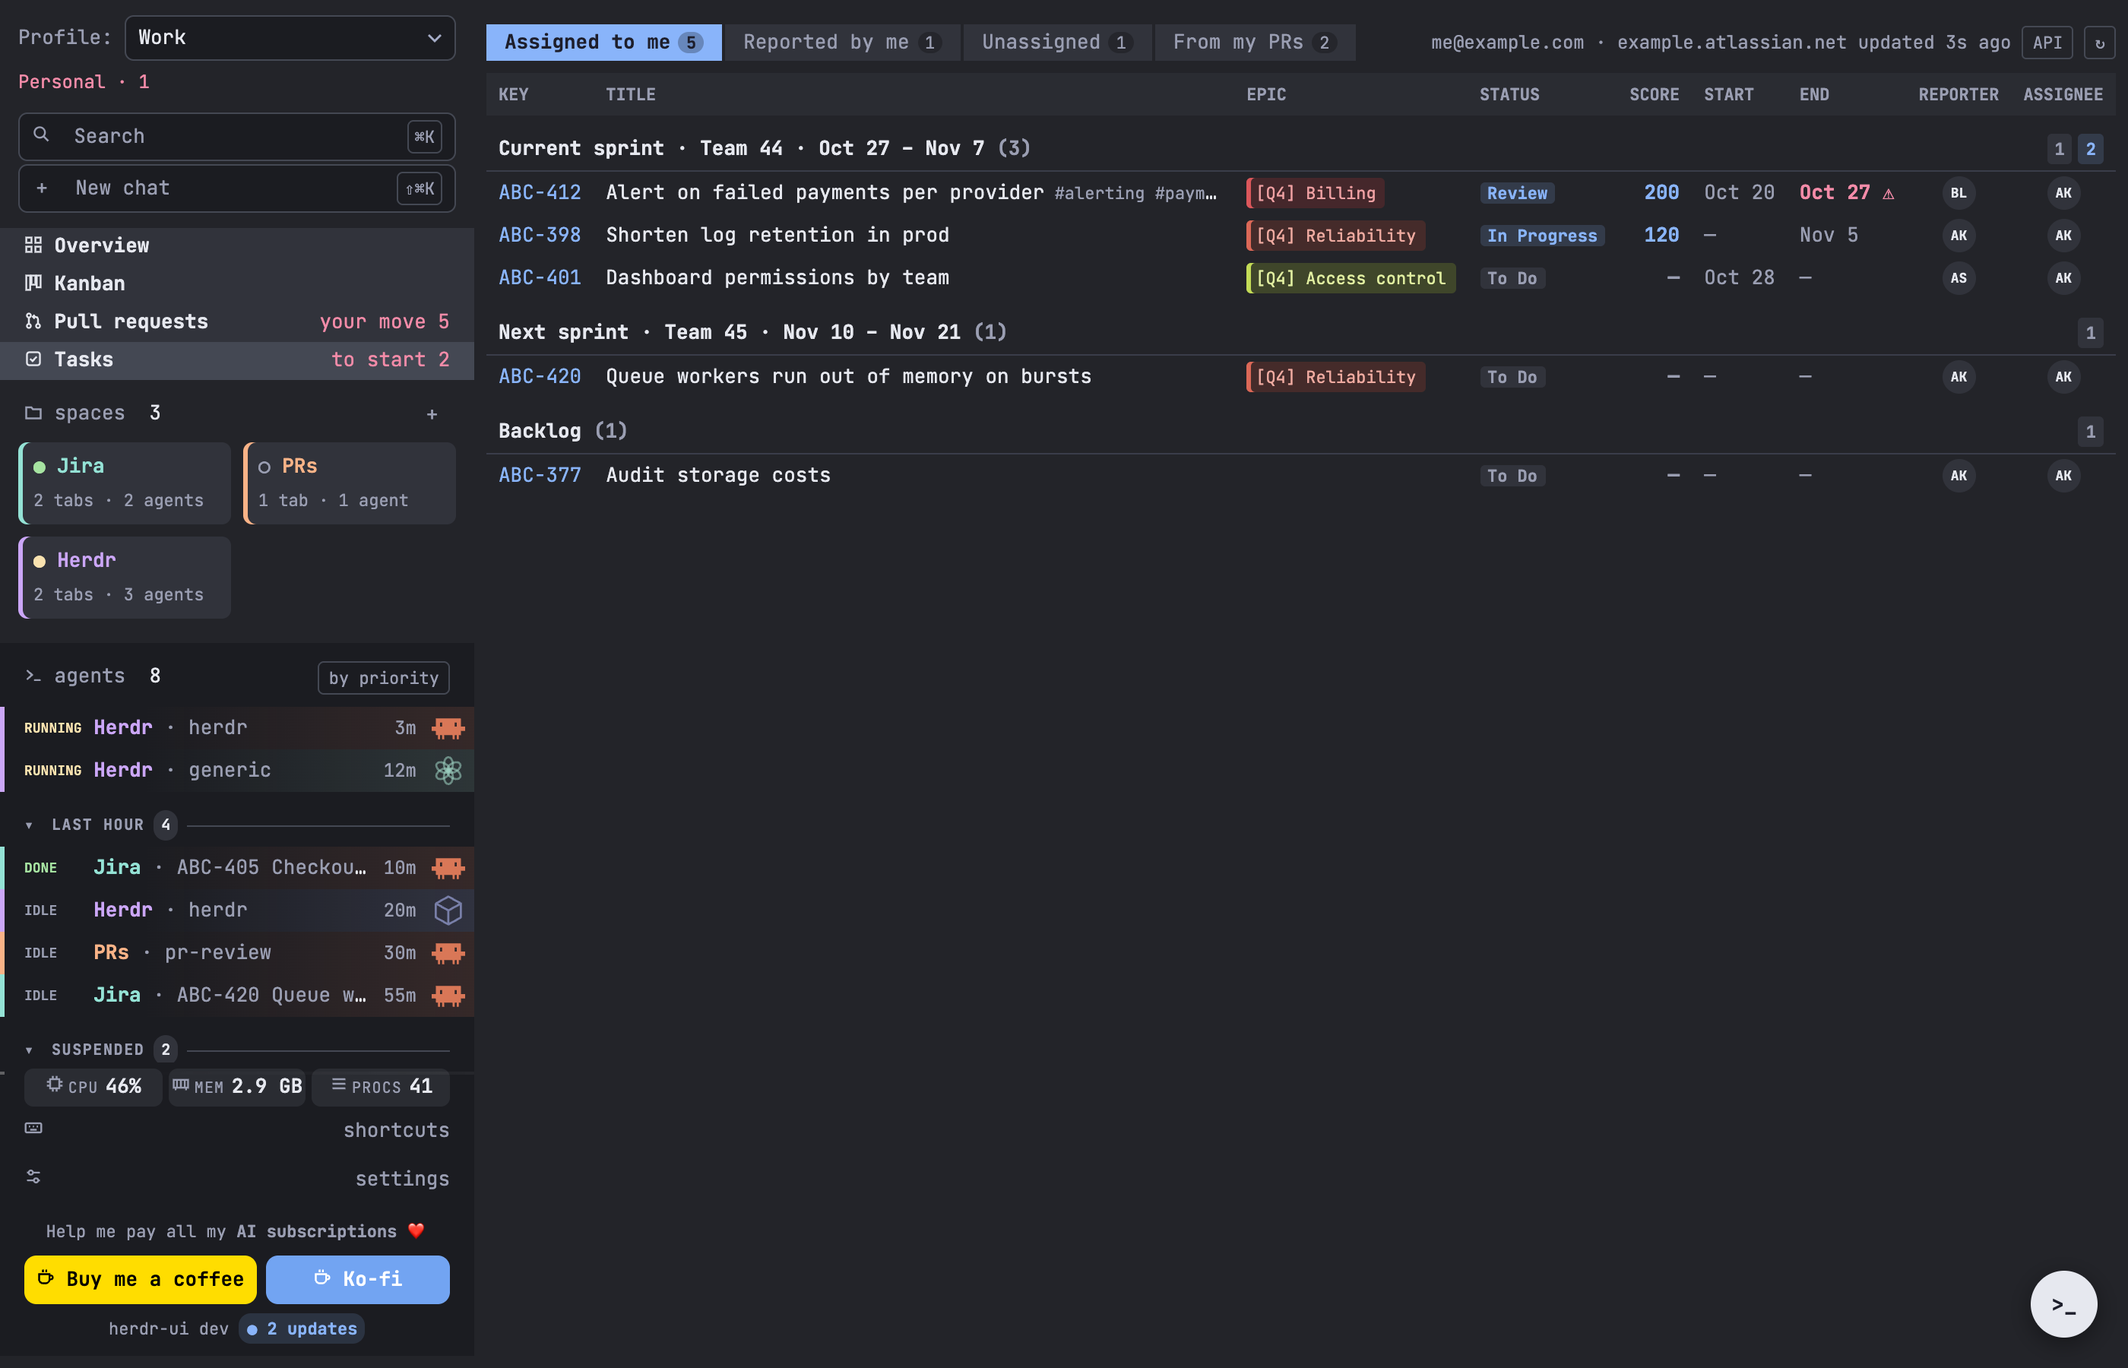
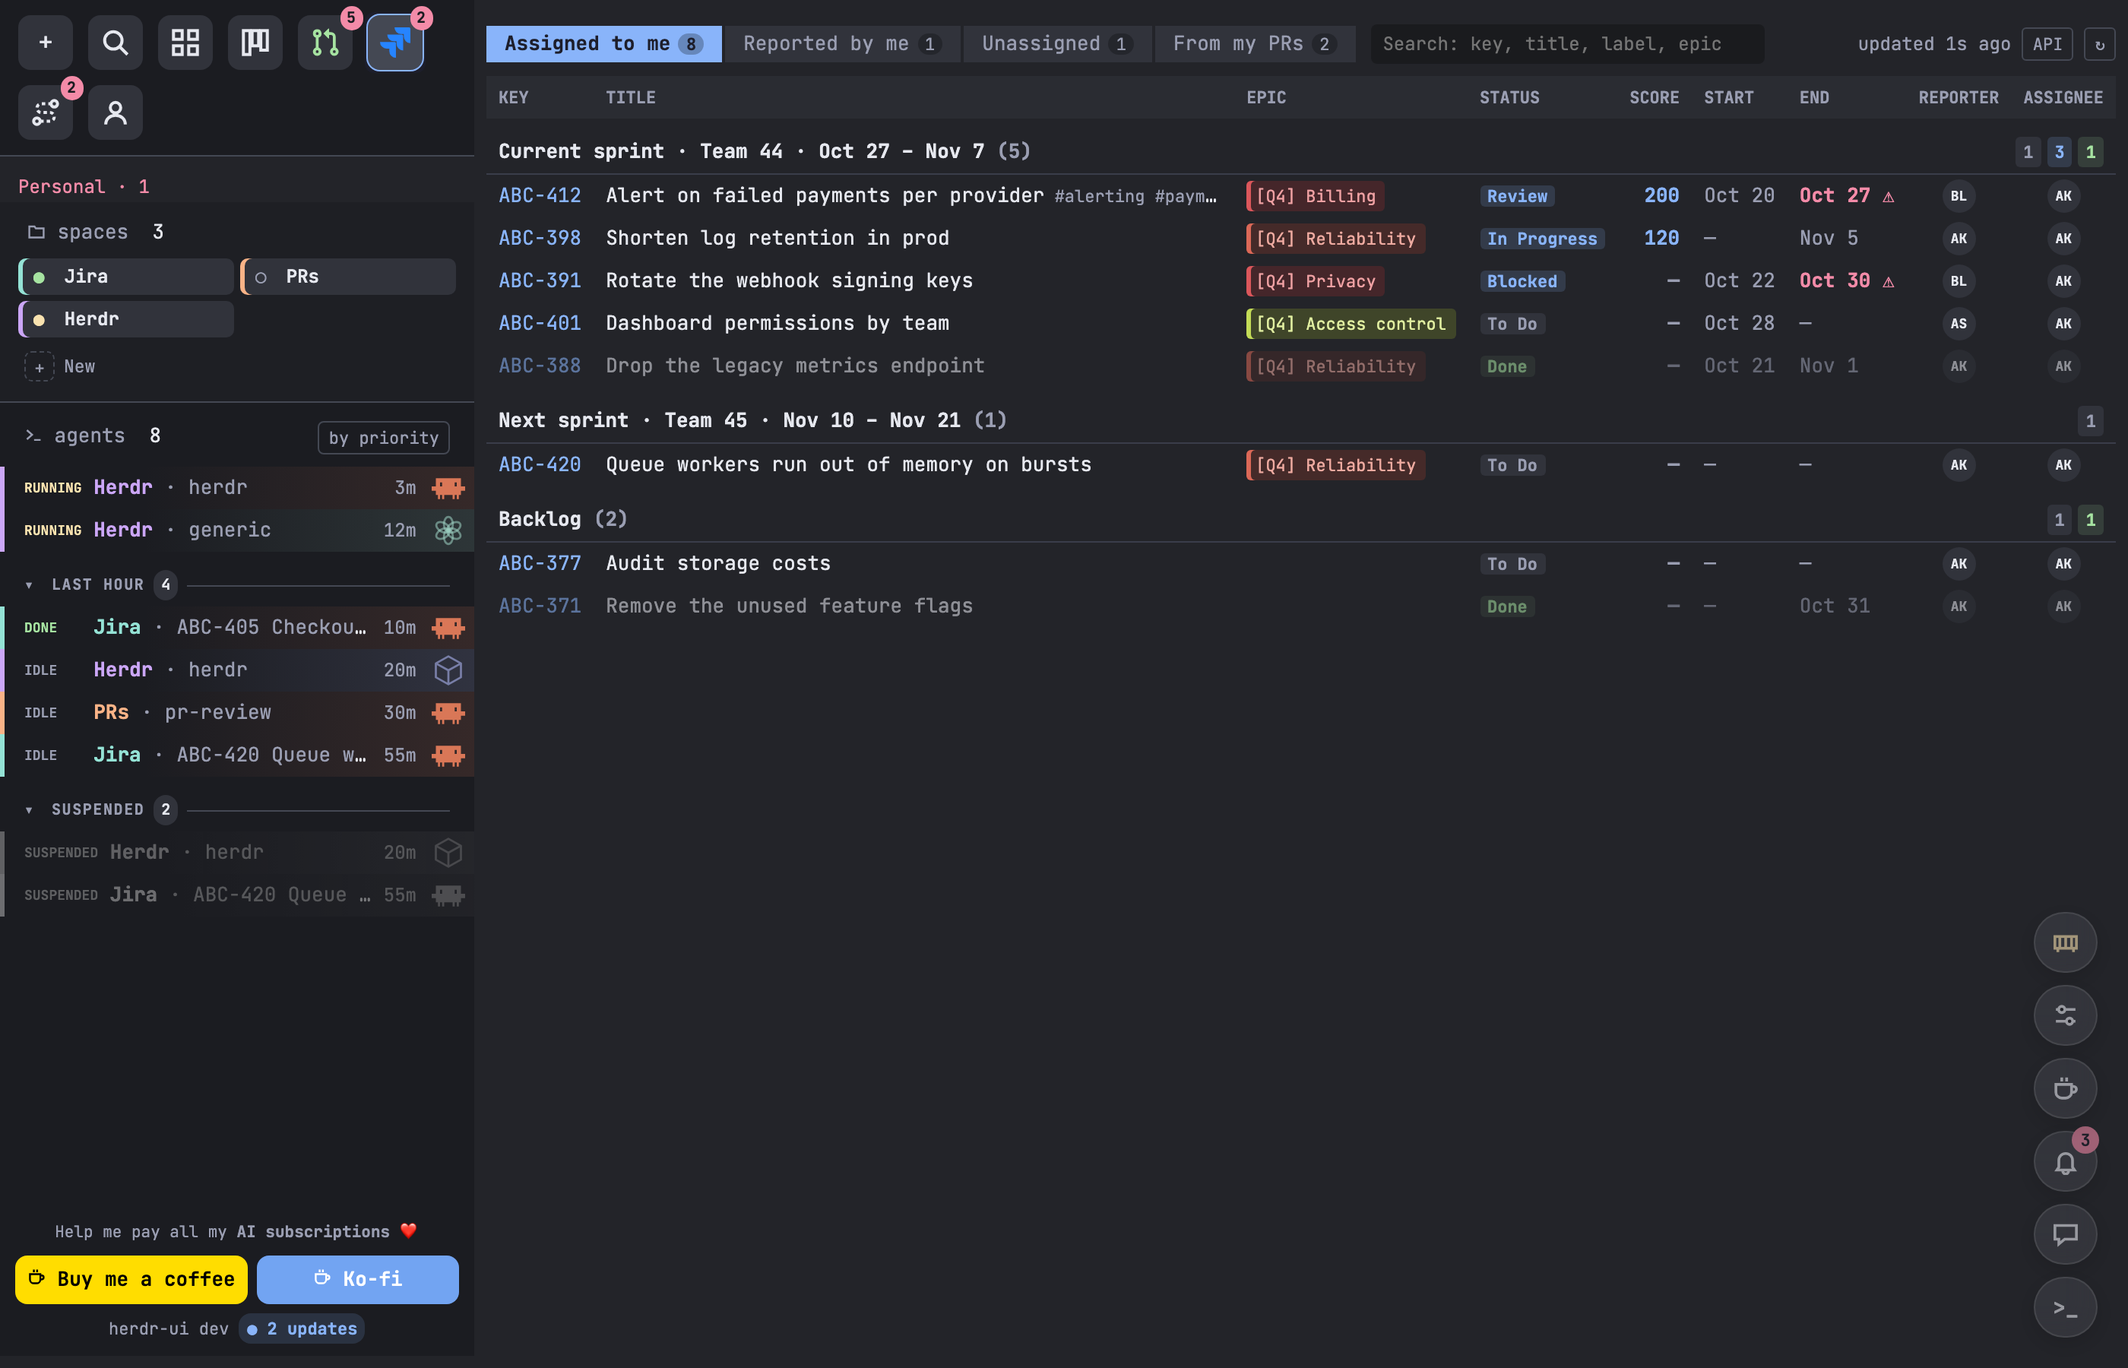
herdr-ui: v0.21.1 screenshots, a Jira section with Tasks and Map, a consolidated More grid

diff --git a/herdr-ui/index.html b/herdr-ui/index.html
@@ -4,7 +4,7 @@
 <meta charset="utf-8">
 <meta name="viewport" content="width=device-width, initial-scale=1">
 <title>herdr-ui · every agent, one screen</title>
-<meta name="description" content="herdr-ui: a better UI for herdr. A live overview of every agent, a kanban by status, pull requests and Jira tasks tied to agents, ⌘K search, and native macOS notifications.">
+<meta name="description" content="herdr-ui: a better UI for herdr. A live overview of every agent, a kanban by status, GitHub and GitLab pull requests and Jira tasks tied to agents, ⌘K search, and native macOS notifications.">
 <link rel="icon" href="icon.svg">
 <meta property="og:image" content="https://dccarbone.github.io/herdr-ui/social-preview.png">
 <link rel="preconnect" href="https://fonts.googleapis.com">
@@ -107,15 +107,7 @@ h2 { font-size:clamp(30px,3.2vw,44px); line-height:1.12; letter-spacing:-.03em; 
 .mac .notif-card { background:rgba(30,27,75,.75); backdrop-filter:blur(12px); -webkit-backdrop-filter:blur(12px); border:1px solid rgba(255,255,255,.12); border-radius:14px; padding:14px 16px; box-shadow:0 14px 40px rgba(0,0,0,.35); }
 .mac .notif-card:nth-child(2) { margin-left:8%; }
 .mac .notif-card .when { float:right; color:var(--muted); font-size:12px; margin-left:8px; }
-.chat { position:relative; z-index:1; display:grid; gap:10px; background:rgba(30,27,75,.75); border:1px solid rgba(255,255,255,.12); border-radius:14px; padding:16px; box-shadow:0 14px 40px rgba(0,0,0,.35); }
-.chat p { margin:0; padding:8px 12px; border-radius:12px; max-width:85%; font-size:14px; }
-.chat .me { justify-self:end; background:var(--accent2); color:var(--fg); }
-.chat .bot { justify-self:start; background:rgba(255,255,255,.08); color:var(--body); }
-.chat .dots { display:flex; gap:4px; padding:12px; }
-.chat .dots i { width:6px; height:6px; border-radius:50%; background:var(--muted); animation:blink 1.4s infinite; }
-.chat .dots i:nth-child(2) { animation-delay:.2s; } .chat .dots i:nth-child(3) { animation-delay:.4s; }
 @keyframes blink { 0%,80%,100% { opacity:.25; } 40% { opacity:1; } }
-.fab { position:relative; z-index:1; margin:16px 0 0 auto; width:44px; height:44px; border-radius:50%; background:#fff; color:#1b1840; display:grid; place-items:center; font:700 14px ui-monospace, Menlo, monospace; box-shadow:0 8px 24px rgba(0,0,0,.4); }
 .dockbar { position:relative; z-index:1; margin:30px auto 0; display:flex; justify-content:center; gap:14px; padding:12px 18px; background:rgba(255,255,255,.08); border:1px solid var(--line); border-radius:18px; width:max-content; }
 .dockbar i { position:relative; width:46px; height:46px; border-radius:12px; background:rgba(255,255,255,.12); display:grid; place-items:center; font-style:normal; font-size:20px; }
 .dockbar i.me { background:var(--accent); animation:bounce 2.4s var(--ease) infinite; }
@@ -158,7 +150,7 @@ footer a:hover { color:var(--fg); }
 @media (prefers-reduced-motion:reduce) {
   html { scroll-behavior:auto; }
   .js .rv { opacity:1; transform:none; transition:none; }
-  .float, .dockbar i.me, .chat .dots i { animation:none; }
+  .float, .dockbar i.me { animation:none; }
   .tilt, .btn { transition:none; }
 }
 </style>
@@ -168,7 +160,7 @@ footer a:hover { color:var(--fg); }
 <div class="topbar"><div class="wrap">
 <nav>
       <a class="logo" href="#"><img src="icon.svg" width="46" height="46" alt=""><span>herdr-ui<small>FOR HERDR</small></span></a>
-      <div class="links"><a href="#overview">Overview</a><a href="#kanban">Kanban</a><a href="#prs">Pull requests</a><a href="#tasks">Tasks</a><a href="#palette">⌘K</a><a href="#assistant">Assistant</a><a href="#native">macOS app</a><a href="#install">Install</a><a class="btn sm bmc" href="https://buymeacoffee.com/dccarbone">☕<span class="lbl"> Buy me a coffee</span></a><a class="btn sm kofi" href="https://ko-fi.com/dccarbone">☕<span class="lbl"> Ko-fi</span></a><a class="btn sm" href="https://pub-1ab8d5b5f9dd43a49ae32ff91a1d4394.r2.dev/herdr-ui/herdr-ui.dmg">Download</a></div>
+      <div class="links"><a href="#overview">Overview</a><a href="#kanban">Kanban</a><a href="#prs">Pull requests</a><a href="#tasks">Jira</a><a href="#palette">⌘K</a><a href="#native">macOS app</a><a href="#more">More</a><a href="#install">Install</a><a class="btn sm bmc" href="https://buymeacoffee.com/dccarbone">☕<span class="lbl"> Buy me a coffee</span></a><a class="btn sm kofi" href="https://ko-fi.com/dccarbone">☕<span class="lbl"> Ko-fi</span></a><a class="btn sm" href="https://pub-1ab8d5b5f9dd43a49ae32ff91a1d4394.r2.dev/herdr-ui/herdr-ui.dmg">Download</a></div>
     </nav>
 </div></div>
 
@@ -179,7 +171,7 @@ footer a:hover { color:var(--fg); }
       <div>
         <span class="pill"><b>macOS</b> Signed, notarized, updates itself</span>
         <h1>Every herdr agent, <span class="grad">one screen.</span></h1>
-        <p class="lead">A live overview, a kanban, pull requests and Jira tasks for every herdr agent, on one screen.</p>
+        <p class="lead">See what each herdr agent is doing, answer the ones that wait on you, and keep their pull requests and Jira tasks next to them.</p>
         <div class="actions">
           <a class="btn" href="https://pub-1ab8d5b5f9dd43a49ae32ff91a1d4394.r2.dev/herdr-ui/herdr-ui.dmg">Download for macOS</a>
           <a class="btn ghost" href="#overview">See how it works</a>
@@ -209,10 +201,10 @@ footer a:hover { color:var(--fg); }
         <div class="points">
           <div style="--c:var(--pink)"><b>It picks for you</b>Blocked agents first, then working and just finished ones.</div>
           <div style="--c:var(--cyan)"><b>Pin or hide</b>Pinned agents stay; hidden ones come back when they block.</div>
-          <div style="--c:var(--orange)"><b>Spaces and profiles</b>Spaces with agent counts, split into Work and Personal.</div>
+          <div style="--c:var(--orange)"><b>A compact sidebar</b>New, Search, the views and Profile as icons; spaces as tiles; then the agents.</div>
           <div style="--c:var(--green)"><b>Limits under each Claude pane</b>Context, model, cache and account limits, with reset times.</div>
-          <div style="--c:var(--orange)"><b>Idle sessions sleep</b>An idle Claude session closes after an hour; Resume reopens it.</div>
-          <div style="--c:var(--cyan)"><b>Keyboard first</b>⌘T, ⌘N, ⌘D, ⌘W; ⌘/ lists them all.</div>
+          <div style="--c:var(--orange)"><b>Idle sessions sleep</b>An idle Claude or Cursor session closes after an hour; Resume reopens it. One running a command stays open, and ∞ keeps any session open.</div>
+          <div style="--c:var(--cyan)"><b>Fork a session</b>Continue a Claude conversation in a new pane; forks nest under their parent.</div>
         </div>
       </div>
       <div class="frame"><div class="bar"><i></i><i></i><i></i><span>herdr-ui · Overview</span></div><img src="overview.png" width="2800" height="1800" alt="The overview: two working agents side by side, with Pull requests and Tasks in the sidebar" loading="lazy"></div>
@@ -250,7 +242,7 @@ footer a:hover { color:var(--fg); }
         <div>
           <div class="icon"><svg viewBox="0 0 24 24"><circle cx="6" cy="6" r="2.5"/><circle cx="6" cy="18" r="2.5"/><circle cx="18" cy="18" r="2.5"/><path d="M6 8.5v7M18 15.5V9a3 3 0 0 0-3-3h-4M13 4l-2 2 2 2"/></svg></div>
           <h2>Pull requests, <span class="grad">tied to agents</span></h2>
-          <p style="color:var(--body)">Your PRs and the reviews asked of you, next to their agents. Sign in with GitHub from the app.</p>
+          <p style="color:var(--body)">Your GitHub PRs and GitLab merge requests, and the reviews asked of you, next to their agents. Sign in with GitHub from the app.</p>
         </div>
         <div class="points">
           <div style="--c:var(--pink)"><b>Your move</b>Failed CI, requested changes and waiting reviews come first.</div>
@@ -273,17 +265,21 @@ footer a:hover { color:var(--fg); }
       <div class="feature-top">
         <div>
           <div class="icon"><svg viewBox="0 0 24 24"><rect x="4" y="4" width="16" height="16" rx="3"/><path d="M8.5 12l2.5 2.5 4.5-5"/></svg></div>
-          <h2>Jira tasks, <span class="grad">by sprint</span></h2>
-          <p style="color:var(--body)">Your open Jira Cloud issues: current sprint, next and backlog. Read only, off until you turn it on in Settings.</p>
+          <h2>Jira tasks, <span class="grad">with their work</span></h2>
+          <p style="color:var(--body)">Your Jira Cloud issues by sprint, and a map of today's tasks with their PRs and agents. Read only, off until you turn it on in Settings.</p>
         </div>
         <div class="points">
-          <div style="--c:var(--pink)"><b>Four tabs</b>Assigned to me, Reported by me, Unassigned, From my PRs.</div>
-          <div style="--c:var(--orange)"><b>One row each</b>Epic, status, dates, reporter and assignee.</div>
-          <div style="--c:var(--green)"><b>Search</b>By key, title, label or epic.</div>
+          <div style="--c:var(--pink)"><b>Tasks by sprint</b>Current sprint, next and backlog; assigned, reported, unassigned or from your PRs.</div>
+          <div style="--c:var(--orange)"><b>Map of today</b>A card per task with its PRs, agents and what waits on you.</div>
+          <div style="--c:var(--green)"><b>Done stays</b>A done task stays while its sprint is open, dimmed after the open ones.</div>
           <div style="--c:var(--cyan)"><b>Task chips</b>A task's status shows on its PRs and agents.</div>
         </div>
       </div>
-      <div class="frame"><div class="bar"><i></i><i></i><i></i><span>herdr-ui · Tasks</span></div><img src="tasks.png" width="2800" height="1800" alt="Tasks: Jira issues by sprint with epic, status, dates and avatars" loading="lazy"></div>
+      <div class="tabs" role="tablist" aria-label="Jira views">
+        <button role="tab" aria-selected="true" data-src="tasks.png" data-alt="Tasks: Jira issues by sprint with epic, status, dates and avatars; done ones dimmed">Tasks</button>
+        <button role="tab" aria-selected="false" data-src="map.png" data-alt="Map: today's tasks as cards by status, with their pull requests and agents">Map</button>
+      </div>
+      <div class="frame"><div class="bar"><i></i><i></i><i></i><span>herdr-ui · Jira</span></div><img class="swap" src="tasks.png" width="2800" height="1800" alt="Tasks: Jira issues by sprint with epic, status, dates and avatars; done ones dimmed" loading="lazy"></div>
     </div>
   </section>
 
@@ -298,38 +294,12 @@ footer a:hover { color:var(--fg); }
         </div>
         <div class="points">
           <div style="--c:var(--pink)"><b>Jump to a chat</b>By space, tab, agent or folder.</div>
-          <div style="--c:var(--cyan)"><b>New chat with ⇧⌘K</b>Pick a folder and a space; your agent starts there.</div>
+          <div style="--c:var(--cyan)"><b>New chat with + or ⇧⌘K</b>Pick a folder and a space; your agent starts there.</div>
           <div style="--c:var(--green)"><b>PRs and tasks</b>Enter opens the PR or the task row; ⌘Enter opens GitHub or Jira.</div>
           <div style="--c:var(--orange)"><b>Your folders</b><code>~/repos</code> or any folder, set in Settings.</div>
         </div>
       </div>
       <div class="frame"><div class="bar"><i></i><i></i><i></i><span>herdr-ui · ⌘K</span></div><img src="palette.png" width="2800" height="1800" alt="⌘K search over the overview: chats, a Jira task and two pull requests in aligned sections" loading="lazy"></div>
-    </div>
-  </section>
-
-  <section id="assistant">
-    <div class="split">
-      <div class="mac rv">
-        <div class="glow" style="top:-200px;left:-150px"></div>
-        <div class="chat">
-          <p class="bot">What can I help you with in herdr today?</p>
-          <p class="me">Open a codex chat in billing-api, in the PRs space</p>
-          <p class="bot">Done: tab billing-api in PRs, codex running.</p>
-          <p class="me">Answer the one waiting in Jira with yes</p>
-          <p class="bot dots"><i></i><i></i><i></i></p>
-        </div>
-        <div class="fab" aria-hidden="true">&gt;_</div>
-      </div>
-      <div class="rv" style="--i:1">
-        <div class="icon"><svg viewBox="0 0 24 24"><path d="M4 17l6-6-6-6"/><path d="M12 19h8"/></svg></div>
-        <h2>Ask the <span class="grad">assistant</span></h2>
-        <p class="body">A chat behind <code>&gt;_</code> or ⌘J that runs herdr for you.</p>
-        <ul class="list">
-          <li><span><b>Plain words.</b> Open a chat, answer an agent, tidy spaces.</span></li>
-          <li><span><b>Keeps the thread.</b> One session remembers what you asked.</span></li>
-          <li><span><b>Out of the way.</b> Its own hidden space; click outside to close.</span></li>
-        </ul>
-      </div>
     </div>
   </section>
 
@@ -342,6 +312,7 @@ footer a:hover { color:var(--fg); }
         <ul class="list">
           <li><span><b>Native notifications.</b> Click one to land on that agent.</span></li>
           <li><span><b>Dock badge and bounce.</b> The icon counts blocked agents.</span></li>
+          <li><span><b>A bell for later.</b> Agents, PR events and expiring caches you missed, for a week.</span></li>
           <li><span><b>Your call.</b> Pick what notifies, with a test button.</span></li>
         </ul>
       </div>
@@ -356,12 +327,16 @@ footer a:hover { color:var(--fg); }
     </div>
   </section>
 
-  <section>
-    <div class="head rv"><h2>Seamless with herdr, <span class="grad">better to look at</span></h2><p>herdr-ui reads your herdr session as it is. GitHub and Jira switch on or off in Settings, nothing lost while off.</p></div>
+  <section id="more">
+    <div class="head rv"><h2>Seamless with herdr, <span class="grad">better to look at</span></h2><p>herdr-ui reads your herdr session as it is. GitHub, GitLab and Jira switch on or off in Settings, nothing lost while off.</p></div>
     <div class="card benefits">
       <div class="rv"><div class="icon"><svg viewBox="0 0 24 24"><path d="M4 17l6-6-6-6"/><path d="M12 19h8"/></svg></div><b>Same session</b><p>Your spaces, tabs and agents, as they are.</p></div>
-      <div class="rv" style="--i:1"><div class="icon"><svg viewBox="0 0 24 24"><rect x="3" y="4" width="18" height="14" rx="2"/><path d="M8 21h8"/></svg></div><b>Browser or app</b><p>One Go binary, in the browser or as the macOS app.</p></div>
-      <div class="rv" style="--i:2"><div class="icon"><svg viewBox="0 0 24 24"><rect x="5" y="11" width="14" height="10" rx="2"/><path d="M8 11V7a4 4 0 0 1 8 0v4"/></svg></div><b>Local only</b><p>Listens on 127.0.0.1; one anonymous daily ping, stats opt-in.</p></div>
+      <div class="rv" style="--i:1"><div class="icon"><svg viewBox="0 0 24 24"><path d="M21 15a2 2 0 0 1-2 2H7l-4 4V5a2 2 0 0 1 2-2h14a2 2 0 0 1 2 2z"/></svg></div><b>Assistant</b><p>A chat behind <code>&gt;_</code> or ⌘J that runs herdr for you, in plain words.</p></div>
+      <div class="rv" style="--i:2"><div class="icon"><svg viewBox="0 0 24 24"><circle cx="12" cy="8" r="4"/><path d="M4 21c0-4 3.6-7 8-7s8 3 8 7"/></svg></div><b>Profiles</b><p>Work and Personal: each its own spaces and New chat settings.</p></div>
+      <div class="rv" style="--i:3"><div class="icon"><svg viewBox="0 0 24 24"><rect x="2" y="6" width="20" height="12" rx="2"/><path d="M6 10h1M10 10h1M14 10h1M18 10h1M7 14h10"/></svg></div><b>Keyboard first</b><p>⌘T, ⌘N, ⌘D, ⌘W and more, each key yours to change; ⌘/ lists them.</p></div>
+      <div class="rv"><div class="icon"><svg viewBox="0 0 24 24"><rect x="3" y="4" width="18" height="14" rx="2"/><path d="M8 21h8"/></svg></div><b>Browser or app</b><p>One Go binary, in the browser or as the macOS app.</p></div>
+      <div class="rv" style="--i:1"><div class="icon"><svg viewBox="0 0 24 24"><rect x="5" y="11" width="14" height="10" rx="2"/><path d="M8 11V7a4 4 0 0 1 8 0v4"/></svg></div><b>Local only</b><p>Listens on 127.0.0.1; one anonymous daily ping, stats opt-in.</p></div>
+      <div class="rv" style="--i:2"><div class="icon"><svg viewBox="0 0 24 24"><path d="M3 12h4l3-8 4 16 3-8h4"/></svg></div><b>Memory at a glance</b><p>herdr, its shells and agents by color, with the process list a click away.</p></div>
       <div class="rv" style="--i:3"><div class="icon"><svg viewBox="0 0 24 24"><path d="M21 12a9 9 0 1 1-3-6.7L21 8"/><path d="M21 3v5h-5"/></svg></div><b>One-click updates</b><p>herdr-ui and herdr itself, without closing your agents.</p></div>
     </div>
   </section>

diff --git a/index.html b/index.html
@@ -127,7 +127,7 @@ footer a:hover { color:var(--ink); }
 var CATEGORIES = { app: 'Apps', mod: 'Claude Mods', skill: 'Claude Skills' };
 var PROJECTS = [
   { kind: 'app', name: 'herdr-ui', sub: 'macOS app · browser', tag: 'Auto-updates', img: 'herdr-ui/overview.png',
-    desc: 'Every herdr agent on one screen: a live overview, a kanban by status, Dock badge and notifications.',
+    desc: 'Every herdr agent on one screen: a live overview, a kanban, pull requests and Jira tasks tied to agents, ⌘K search and notifications.',
     href: 'herdr-ui/', cta: 'See the page', note: 'Free download' },
 ];
 
